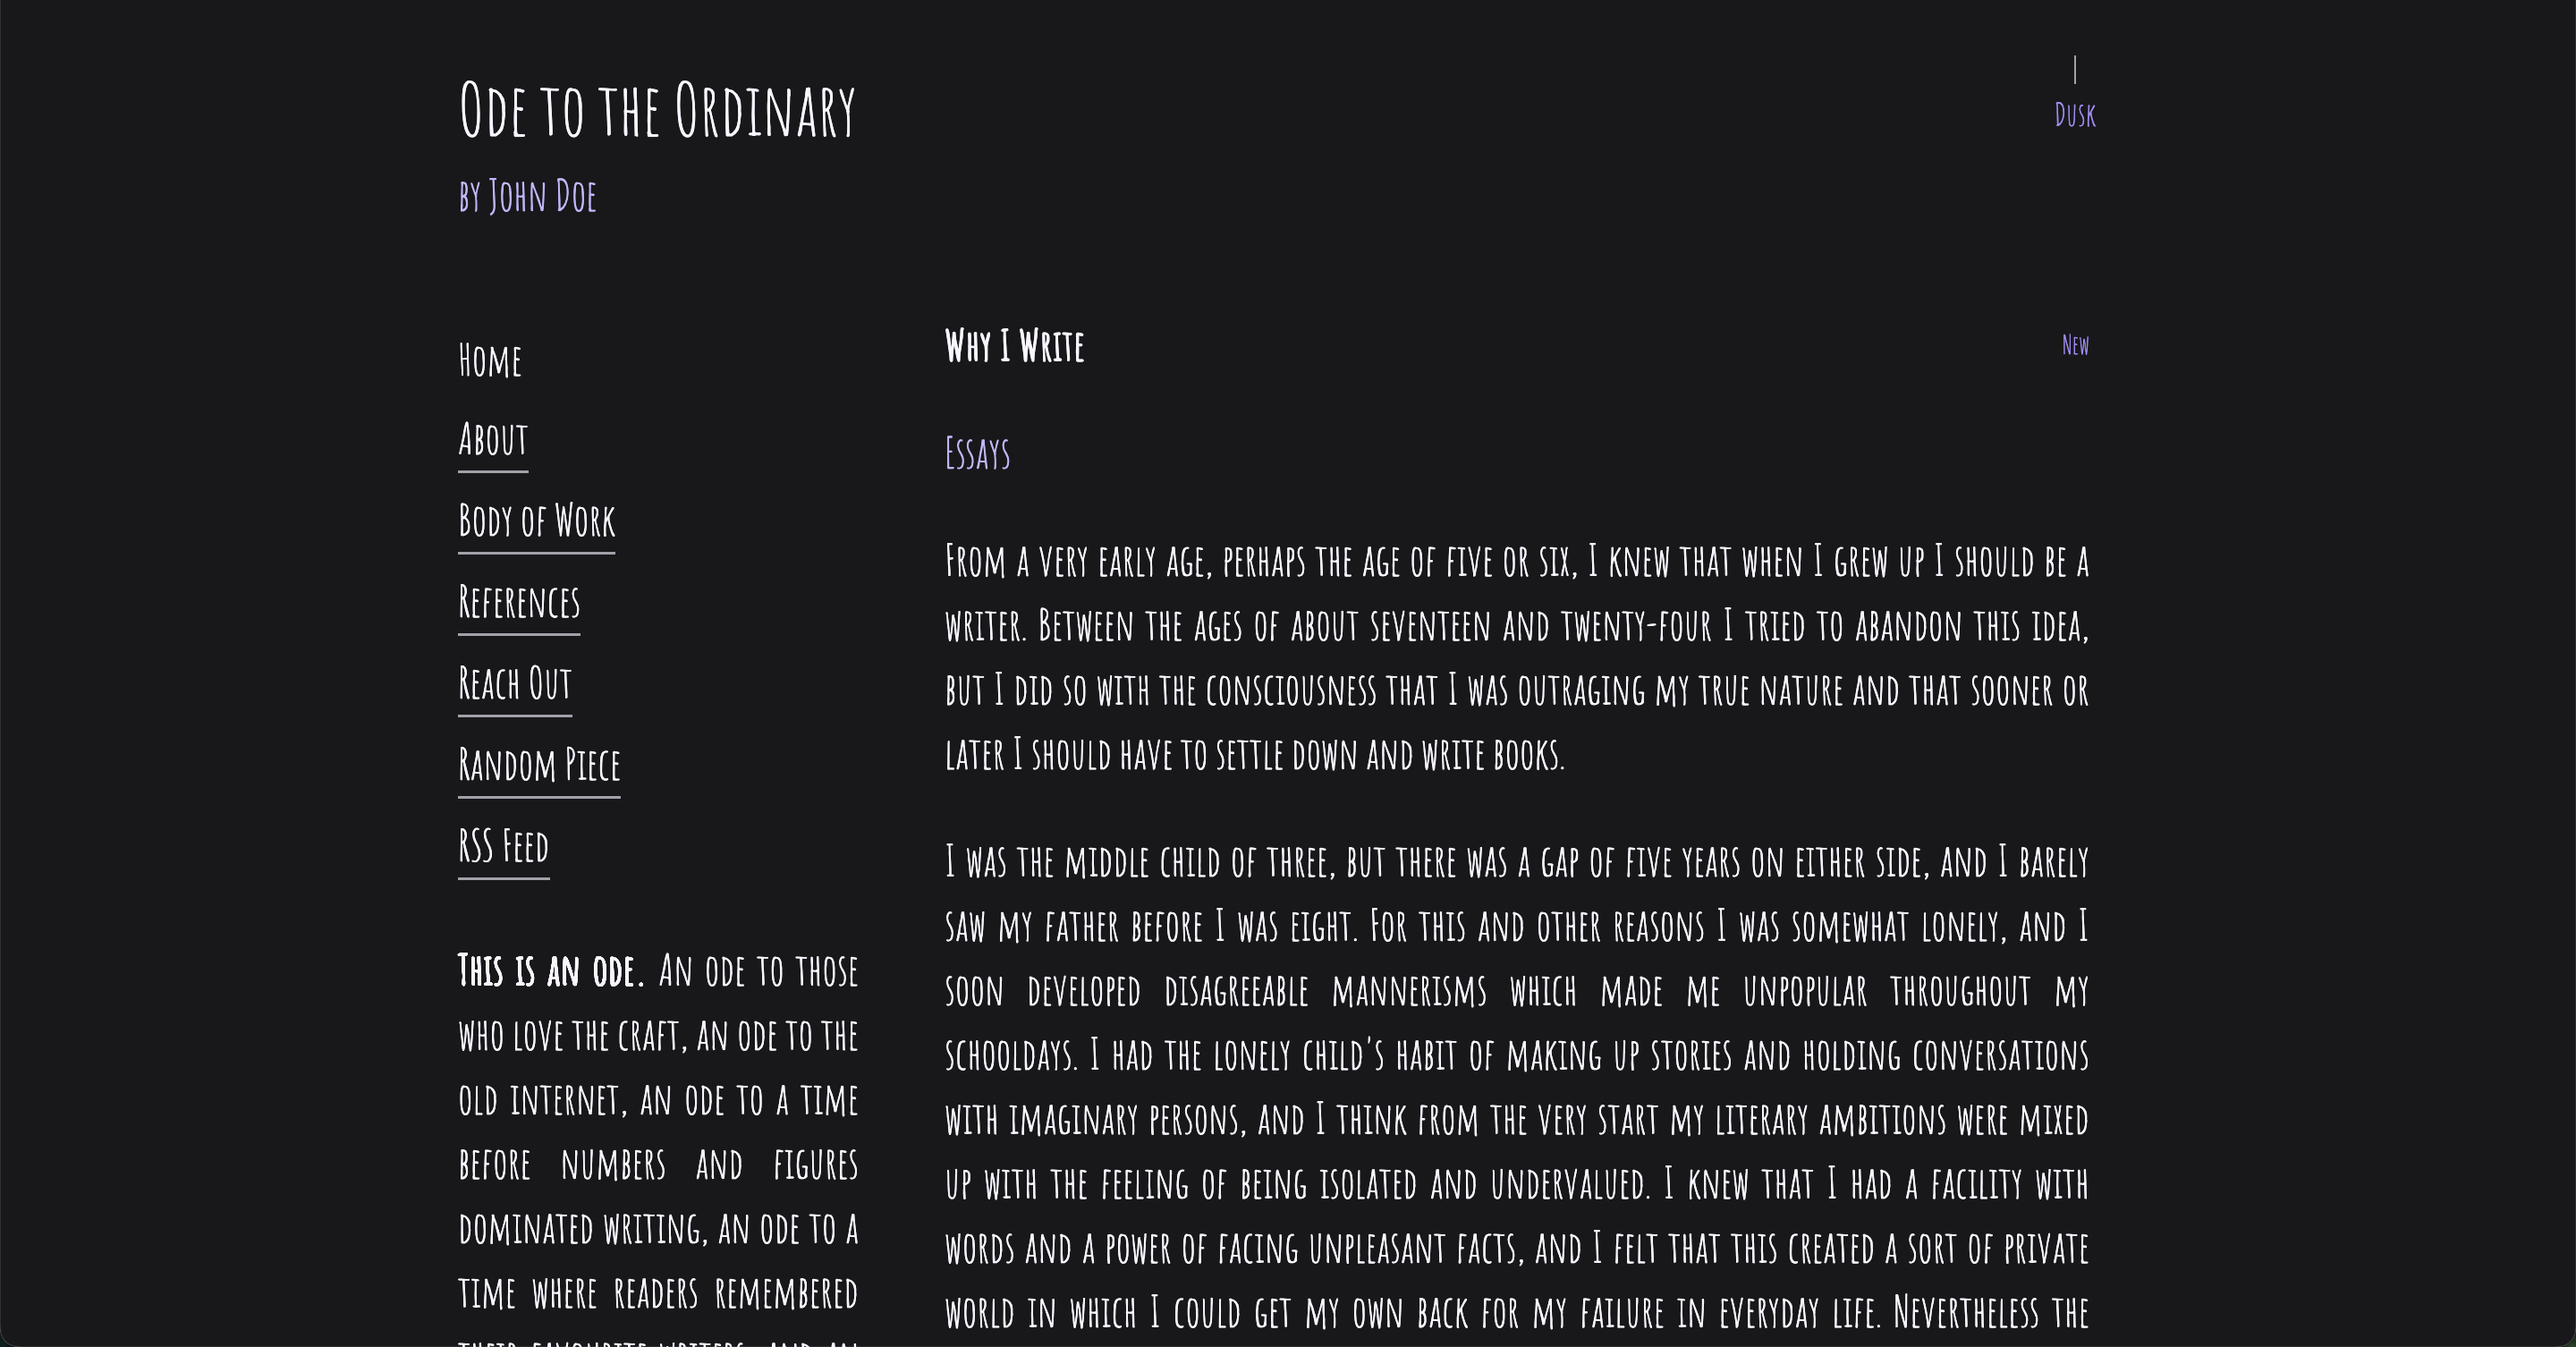
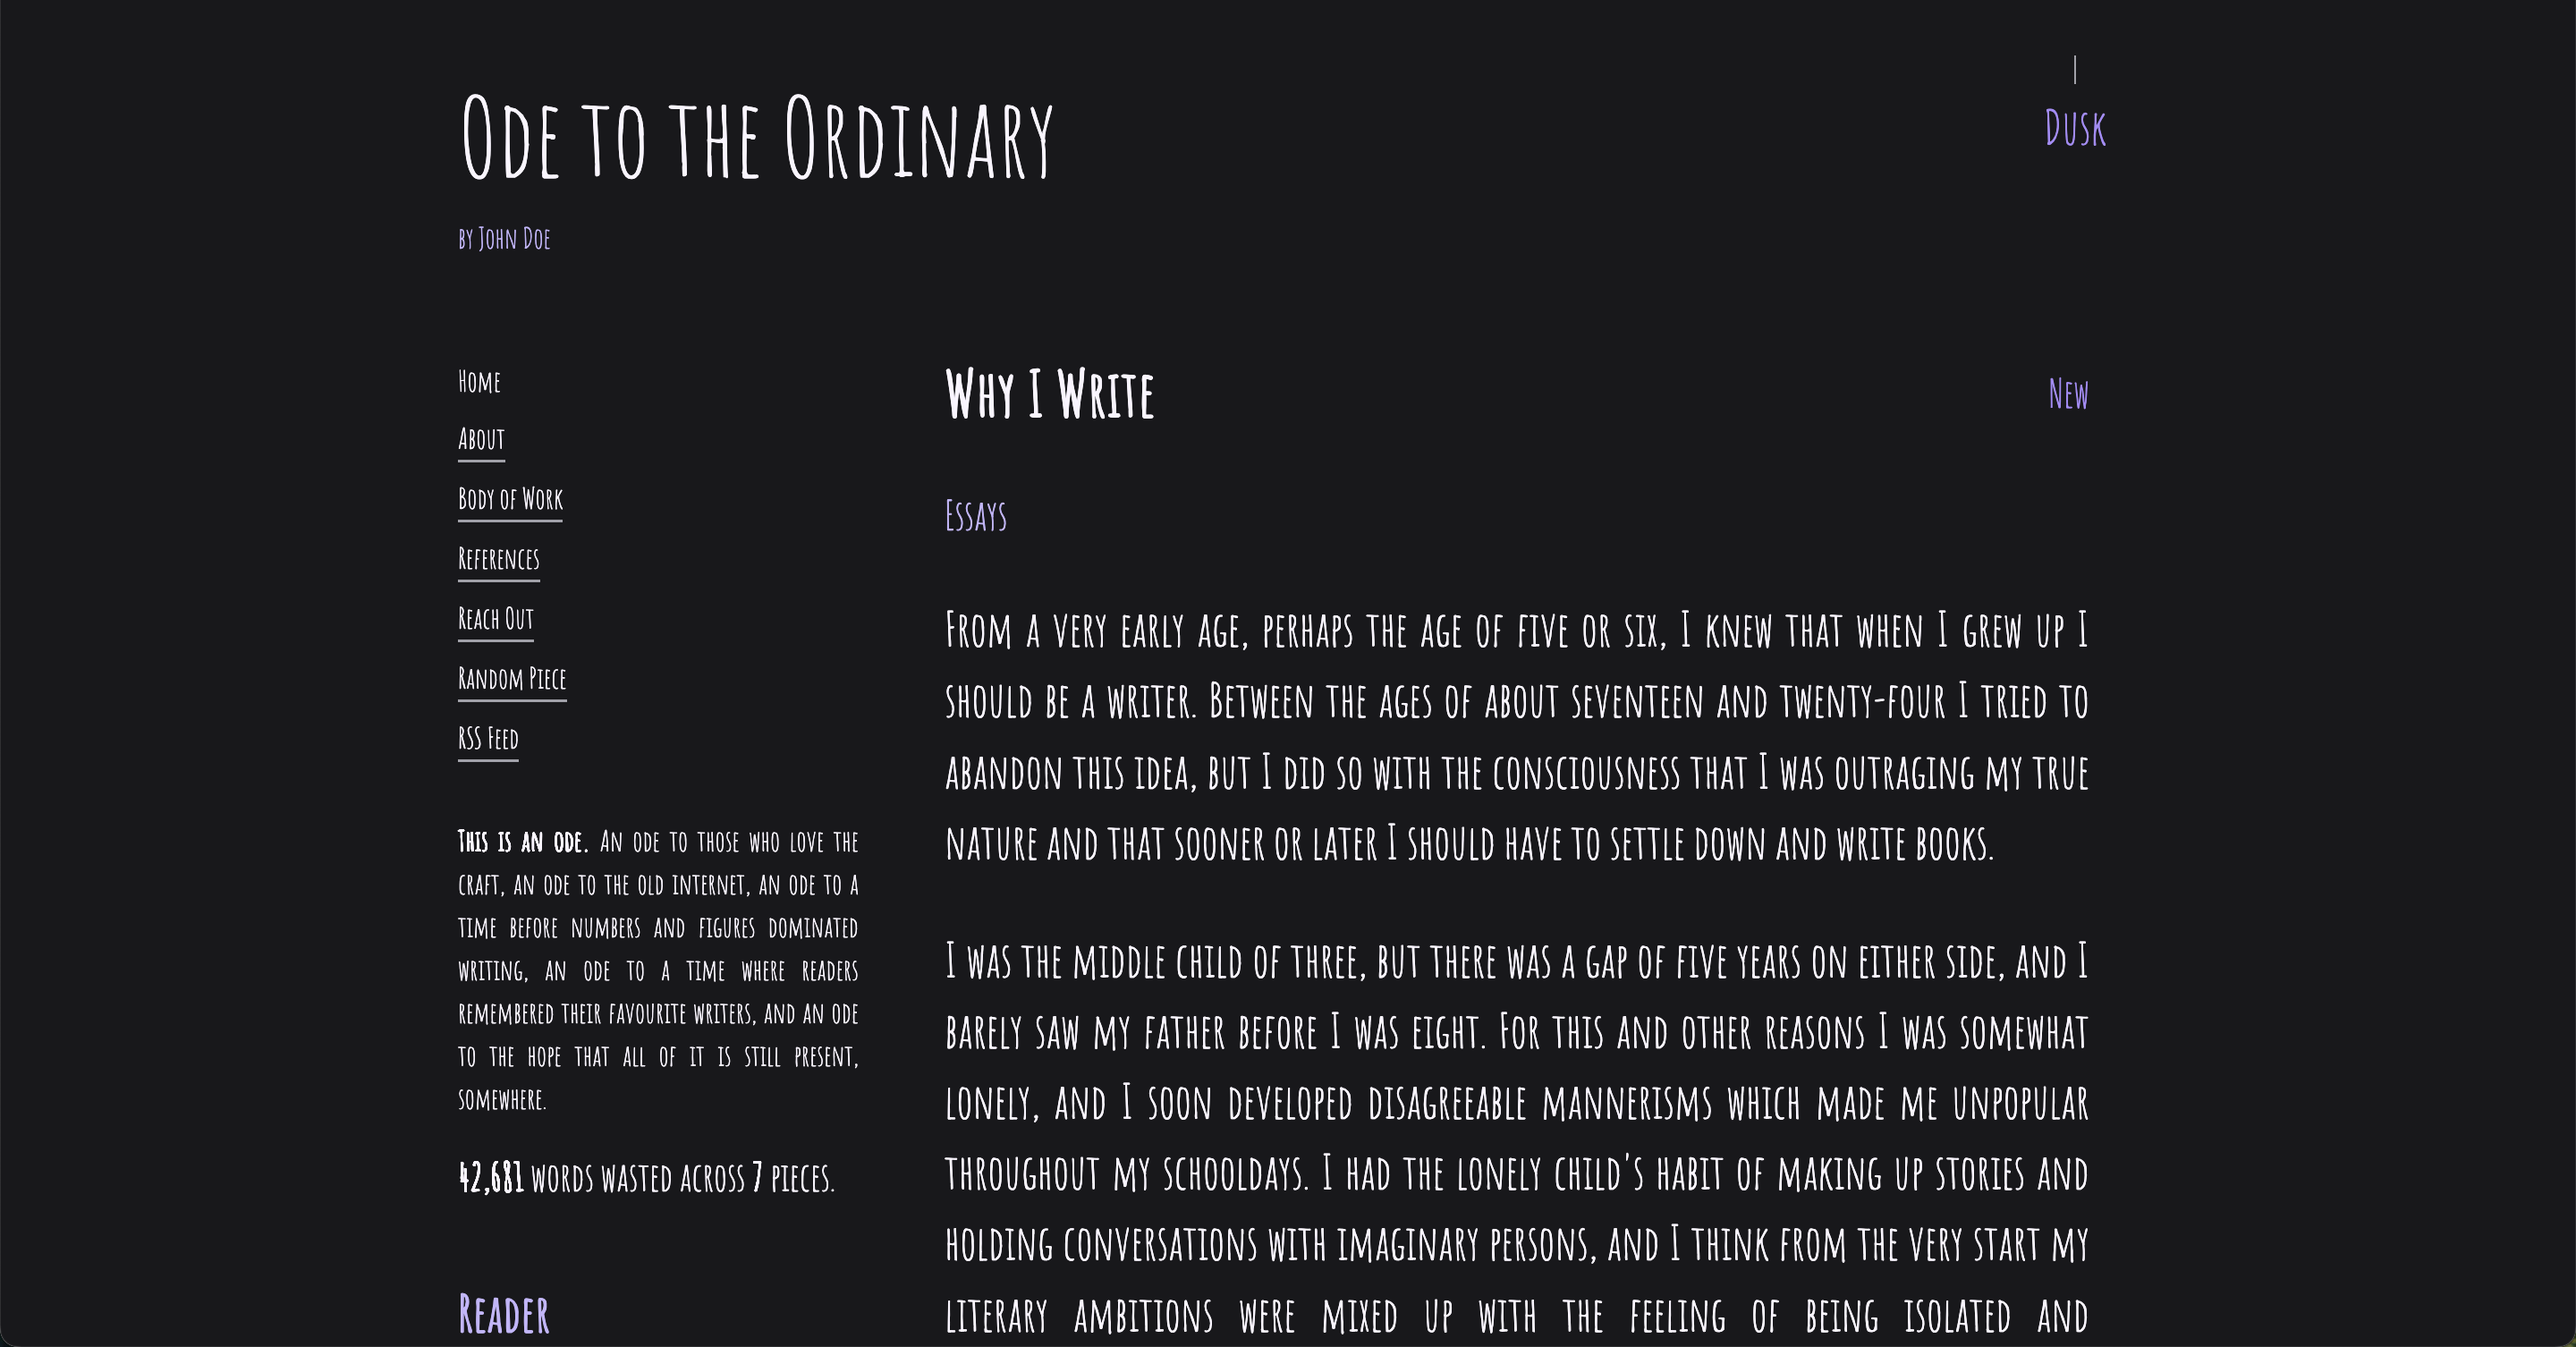
feat(themes): add 'screenplay' theme to replace 'scripture'; 'journal' already serves the aesthetic 'scripture' offered

diff --git a/src/assets/themes/screenplay.js b/src/assets/themes/screenplay.js
@@ -1,0 +1,27 @@
+export default {
+  font: {
+    family: "Courier Prime, monospace",
+    url: "https://fonts.googleapis.com/css2?family=Courier+Prime:ital,wght@0,400;0,700;1,400&display=swap",
+    fallback: "Courier, monospace"
+  },
+  colors: {
+    light: {
+      primary: "#000000",
+      secondary: "#333333",
+      grey: "#808080",
+      grey2: "#595959",
+      background: "#ffffff",
+      text: "#000000",
+      highlight: "#ffff00"
+    },
+    dark: {
+      primary: "#e0e0e0",
+      secondary: "#b0b0b0",
+      grey: "#666666",
+      grey2: "#4d4d4d",
+      background: "#0a0a0a",
+      text: "#e0e0e0",
+      highlight: "#ffff0050"
+    }
+  }
+};

diff --git a/THEMING.md b/THEMING.md
@@ -14,7 +14,7 @@ Ode comes with 10 built-in themes, each is named and carefully designed after a 
 - **journal** - Classic literary aesthetic with IM Fell DW Pica
 - **manuscript** - Publishing aesthetic with Literata
 - **recipe** - Handwritten cooking vibes with Indie Flower
-- **scripture** - Warm sepia tones with Crimson Text
+- **screenplay** - Film screenplay style with Courier Prime
 - **sketch** - Monochrome pencil aesthetic with Klee One
 
 <table>
@@ -100,12 +100,12 @@ Ode comes with 10 built-in themes, each is named and carefully designed after a 
   </tr>
   <tr>
     <td width="50%">
-      <img src=".github/media/themes/scripture_light.png" alt="Scripture - Light Mode">
-      <p align="center"><strong>scripture</strong> - light</p>
+      <img src=".github/media/themes/screenplay_light.png" alt="Screenplay - Light Mode">
+      <p align="center"><strong>screenplay</strong> - light</p>
     </td>
     <td width="50%">
-      <img src=".github/media/themes/scripture_dark.png" alt="Scripture - Dark Mode">
-      <p align="center"><strong>scripture</strong> - dark</p>
+      <img src=".github/media/themes/screenplay_dark.png" alt="Screenplay - Dark Mode">
+      <p align="center"><strong>screenplay</strong> - dark</p>
     </td>
   </tr>
   <tr>

diff --git a/CHANGELOG.md b/CHANGELOG.md
@@ -9,7 +9,7 @@ and this project adheres to [Semantic Versioning](https://semver.org/spec/v2.0.0
 
 ### Added
 
-- Dynamic theme engine with 10 built-in presets (`almanac`, `blueprint`, `comic`, `doodle`, `exploit`, `journal` (default), `manuscript`, `recipe`, `scripture`, `sketch`).
+- Dynamic theme engine with 10 built-in presets (`almanac`, `blueprint`, `comic`, `doodle`, `exploit`, `journal` (default), `manuscript`, `recipe`, `screenplay`, `sketch`).
 - Theme configuration via `ui.theme.preset`, `ui.theme.overrides`, and `ui.theme.defaultMode` in `config.yaml` (fully backwards compatible; not having the sections does not break anything).
 - Support for local font files with automatic format detection.
 - Font scaling system with proportional sizing using `--font-scale` CSS variable.
